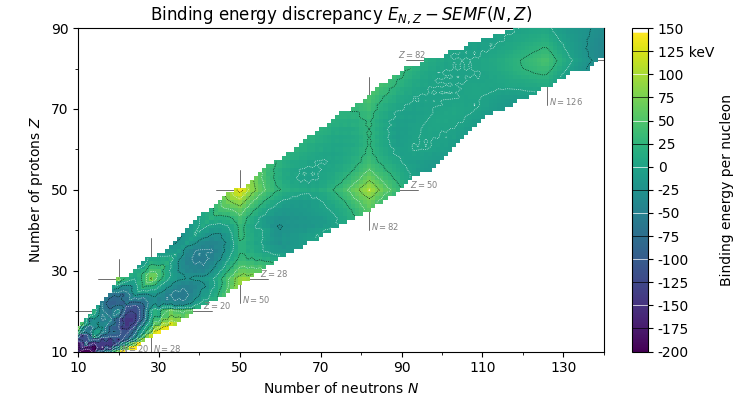
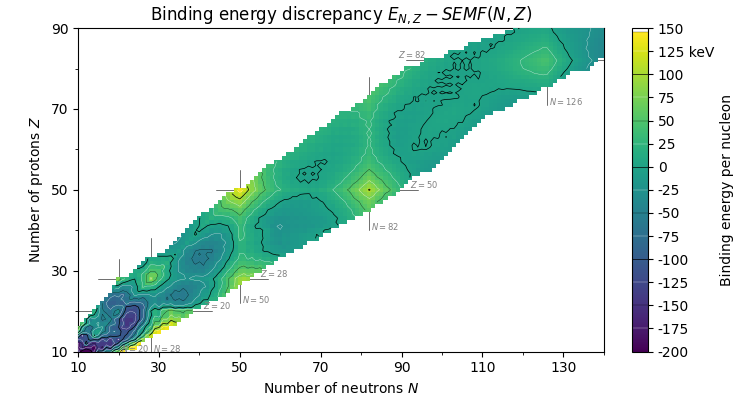
nicer contours
don't worry i updated the wikipedia first

diff --git a/nuclear-graph/_helpers.py b/nuclear-graph/_helpers.py
@@ -27,7 +27,11 @@ def grid(max_n, max_z, minor, major, min_nz=0, data_min=0):
 
 LINE    = dict(zorder=1, c='black', lw=0.4)
 GRAPH   = dict(zorder=3, cmap='viridis', origin='lower')
-CONTOUR = dict(zorder=5, colors=('white', 'black'), linestyles='dotted', linewidths=0.5)
+CONTOUR = dict(zorder=5,
+               colors=('black', 'white'),
+               linewidths=(0.5, 0.2, 0.2, 0.2),
+               linestyles=('solid'),
+               )
 LABEL   = dict(zorder=7, c='gray',  size=6, xycoords='data')
 
 magic_lines = lambda p_data, p_width, n_data, n_width: {
